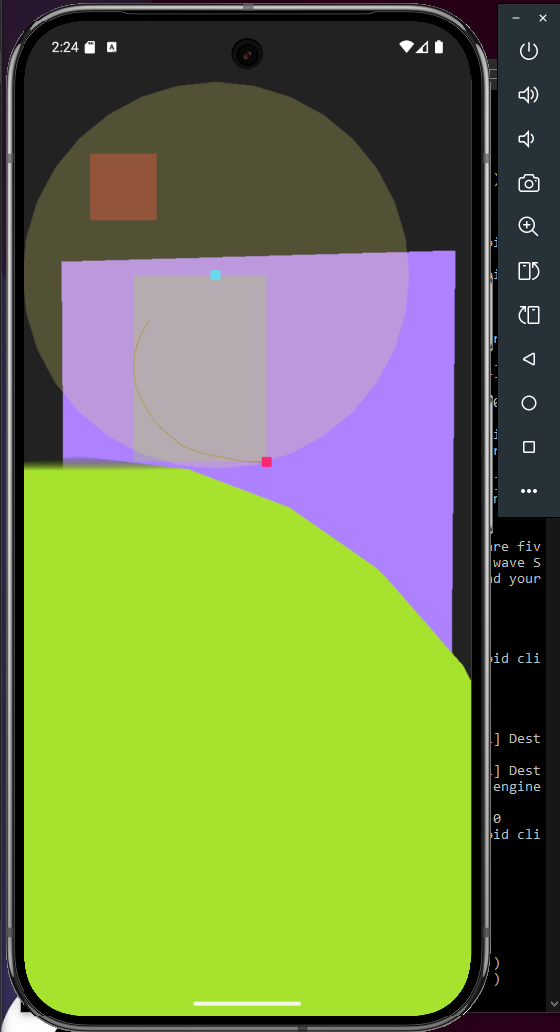
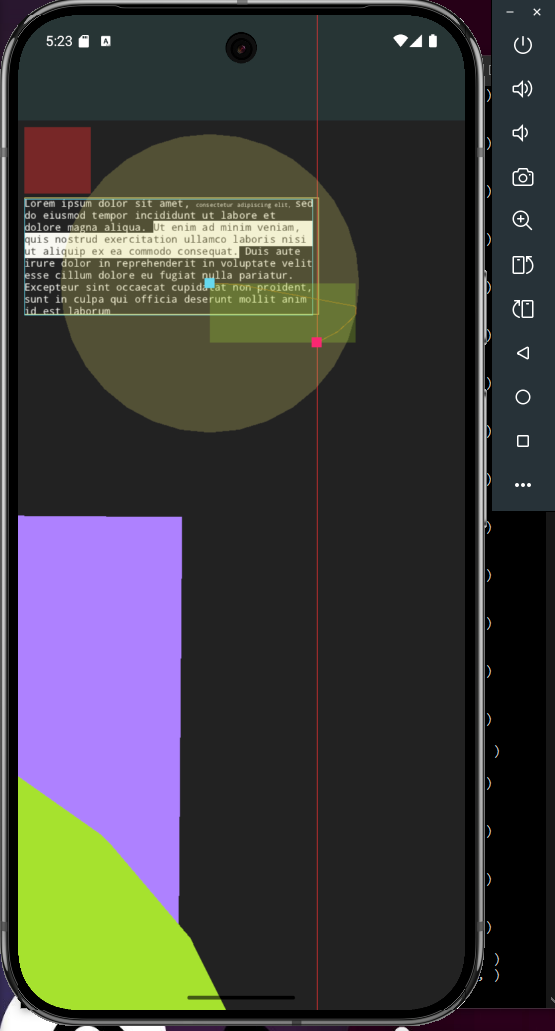
Added jObjGetField and jClassGetField to os_jni.h as well as some more function signatures that we needed to determine the safe area on the screen that we can render to.

diff --git a/os/os_jni.h b/os/os_jni.h
@@ -108,7 +108,9 @@ plex JvmReturn
 	PIG_CORE_INLINE jstring NewJStrNt(JNIEnv* env, const char* nullTermStr);
 	PIG_CORE_INLINE Str8 ToStr8FromJStr(JNIEnv* env, Arena* arena, jstring jstr, bool addNullTerm);
 	JvmReturn jObjCall(JNIEnv* env, jobject jobj, bool isStaticMethod, const char* funcNameNt, const char* funcTypeSignatureNt, JvmType returnType, bool assertOnNullReturn, ...);
-	JvmReturn jClassCall(JNIEnv* env, const char* className, const char* funcNameNt, const char* funcTypeSignatureNt, JvmType returnType, bool assertOnNullReturn, ...);
+	JvmReturn jClassCall(JNIEnv* env, const char* classNameNt, const char* funcNameNt, const char* funcTypeSignatureNt, JvmType returnType, bool assertOnNullReturn, ...);
+	JvmReturn jObjGetField(JNIEnv* env, jobject jobj, bool isStaticField, const char* fieldNameNt, const char* typeSignatureNt, JvmType fieldType, bool assertOnNull);
+	JvmReturn jClassGetField(JNIEnv* env, const char* classNameNt, const char* fieldNameNt, const char* typeSignatureNt, JvmType fieldType, bool assertOnNull);
 #endif
 
 // +--------------------------------------------------------------+
@@ -134,6 +136,11 @@ JavaVM* AndroidJavaVM = nullptr;
 		(*AndroidJavaVM)->DetachCurrentThread(AndroidJavaVM))
 
 // +==============================+
+// |       Field Signatures       |
+// +==============================+
+#define jGetField_Build_VERSION_CODES(env, levelFieldNameNt) jClassGetField(env, "android/os/Build$VERSION_CODES", (levelFieldNameNt), "I", JvmType_Int, true).intValue
+
+// +==============================+
 // |     Function Signatures      |
 // +==============================+
 // NOTE: JNI type signature strings include the following types (For example when calling GetMethodID on a jclass):
@@ -145,15 +152,37 @@ JavaVM* AndroidJavaVM = nullptr;
 //		'J': long
 //		'F': float
 //		'D': double
-//		"L fully_qualified_class": fully_qualified_class
+//		"L fully_qualified_class;": fully_qualified_class
 //		"[ type": type[]
 //		"( arg_types ) return_type": Method with "arg_types" and "return_type"
 
-// android.app.NativeActivity Functions
-#define jCall_getSystemService(env, nativeActivity, serviceJStr) jObjCall((env), (nativeActivity)->clazz, false, "getSystemService", "(Ljava/lang/String;)Ljava/lang/Object;", JvmType_Object, true, (serviceJStr)).objectValue;
+// android.app.Activity Functions (https://developer.android.com/reference/android/app/Activity)
+#define jCall_getWindow(env, activity) jObjCall((env), (activity)->clazz, false, "getWindow", "()Landroid/view/Window;", JvmType_Object, true).objectValue
+
+// android.app.NativeActivity Functions (https://developer.android.com/reference/android/app/NativeActivity)
+#define jCall_getSystemService(env, nativeActivity, serviceJStr) jObjCall((env), (nativeActivity)->clazz, false, "getSystemService", "(Ljava/lang/String;)Ljava/lang/Object;", JvmType_Object, true, (serviceJStr)).objectValue
 #define jCall_getFilesDir(env, nativeActivity) jObjCall((env), (nativeActivity)->clazz, false, "getFilesDir", "()Ljava/io/File;", JvmType_Object, true).objectValue
 
-// java.io.File Functions
+// android.view.Window Functions (https://developer.android.com/reference/android/view/Window)
+#define jCall_getDecorView(env, window) jObjCall((env), (window), false, "getDecorView", "()Landroid/view/View;", JvmType_Object, true).objectValue
+
+// android.view.View Functions (https://developer.android.com/reference/android/view/View)
+#define jCall_getRootWindowInsets(env, view) jObjCall((env), (view), false, "getRootWindowInsets", "()Landroid/view/WindowInsets;", JvmType_Object, true).objectValue
+
+// android.view.WindowInsets (https://developer.android.com/reference/android/view/WindowInsets)
+#define jCall_getDisplayCutout(env, windowInsets) jObjCall((env), (windowInsets), false, "getDisplayCutout", "()Landroid/view/DisplayCutout;", JvmType_Object, false).objectValue
+#define jCall_getSystemWindowInsetBottom(env, windowInsets) jObjCall((env), (windowInsets), false, "getSystemWindowInsetBottom", "()I", JvmType_Int, true).intValue
+#define jCall_getSystemWindowInsetLeft(env, windowInsets)   jObjCall((env), (windowInsets), false, "getSystemWindowInsetLeft",   "()I", JvmType_Int, true).intValue
+#define jCall_getSystemWindowInsetRight(env, windowInsets)  jObjCall((env), (windowInsets), false, "getSystemWindowInsetRight",  "()I", JvmType_Int, true).intValue
+#define jCall_getSystemWindowInsetTop(env, windowInsets)    jObjCall((env), (windowInsets), false, "getSystemWindowInsetTop",    "()I", JvmType_Int, true).intValue
+
+// android.view.DisplayCutout (https://developer.android.com/reference/android/view/DisplayCutout)
+#define jCall_getSafeInsetBottom(env, displayCutout) jObjCall((env), (displayCutout), false, "getSafeInsetBottom", "()I", JvmType_Int, true).intValue
+#define jCall_getSafeInsetLeft(env, displayCutout)   jObjCall((env), (displayCutout), false, "getSafeInsetLeft",   "()I", JvmType_Int, true).intValue
+#define jCall_getSafeInsetRight(env, displayCutout)  jObjCall((env), (displayCutout), false, "getSafeInsetRight",  "()I", JvmType_Int, true).intValue
+#define jCall_getSafeInsetTop(env, displayCutout)    jObjCall((env), (displayCutout), false, "getSafeInsetTop",    "()I", JvmType_Int, true).intValue
+
+// java.io.File Functions (https://developer.android.com/reference/java/io/File)
 #define jCall_getAbsolutePath(env, fileJObj) jObjCall((env), (fileJObj), false, "getAbsolutePath", "()Ljava/lang/String;", JvmType_String, true).stringValue
 
 // android.text.ClipboardManager Functions (https://developer.android.com/reference/android/content/ClipboardManager)
@@ -207,6 +236,7 @@ PEXP JvmReturn jObjCall(JNIEnv* env, jobject jobj, bool isStaticMethod, const ch
 	jmethodID methodId = isStaticMethod
 		? (*env)->GetStaticMethodID(env, classRef, funcNameNt, funcTypeSignatureNt)
 		: (*env)->GetMethodID(env, classRef, funcNameNt, funcTypeSignatureNt);
+	if (methodId == nullptr) { PrintLine_E("Couldn't find method \"%s\" of type \"%s\" on Java object", funcNameNt, funcTypeSignatureNt); }
 	AssertMsg(methodId != nullptr, "Couldn't find Java method by name/signature on object's class!");
 	va_list args;
 	va_start(args, methodId);
@@ -230,15 +260,21 @@ PEXP JvmReturn jObjCall(JNIEnv* env, jobject jobj, bool isStaticMethod, const ch
 		default: AssertMsg(false, "Unsupported returnType in jObjCall!"); break;
 	}
 	va_end(args);
-	if (assertOnNullReturn && (returnType == JvmType_Object || returnType == JvmType_String)) { AssertMsg(result.objectValue != nullptr, "Java method returned null jobject!"); }
+	if (assertOnNullReturn && (returnType == JvmType_Object || returnType == JvmType_String))
+	{
+		if (result.objectValue == nullptr) { PrintLine_E("Got null from method \"%s\" with type \"%s\" on Java object", funcNameNt, funcTypeSignatureNt); }
+		AssertMsg(result.objectValue != nullptr, "Java method returned null jobject!");
+	}
 	return result;
 }
 
-PEXP JvmReturn jClassCall(JNIEnv* env, const char* className, const char* funcNameNt, const char* funcTypeSignatureNt, JvmType returnType, bool assertOnNullReturn, ...)
+PEXP JvmReturn jClassCall(JNIEnv* env, const char* classNameNt, const char* funcNameNt, const char* funcTypeSignatureNt, JvmType returnType, bool assertOnNullReturn, ...)
 {
-	jclass classRef = (*env)->FindClass(env, className);
+	jclass classRef = (*env)->FindClass(env, classNameNt);
+	if (classRef == nullptr) { PrintLine_E("Couldn't find Java class named \"%s\"", classNameNt); }
 	AssertMsg(classRef != nullptr, "Couldn't find Java class by name!");
 	jmethodID methodId = (*env)->GetStaticMethodID(env, classRef, funcNameNt, funcTypeSignatureNt);
+	if (methodId == nullptr) { PrintLine_E("Couldn't find method \"%s\" of type \"%s\" on Java class \"%s\"", funcNameNt, funcTypeSignatureNt, classNameNt); }
 	AssertMsg(methodId != nullptr, "Couldn't find Java method by name/signature on found class!");
 	va_list args;
 	va_start(args, methodId);
@@ -262,7 +298,81 @@ PEXP JvmReturn jClassCall(JNIEnv* env, const char* className, const char* funcNa
 		default: AssertMsg(false, "Unsupported returnType in jClassCall!"); break;
 	}
 	va_end(args);
-	if (assertOnNullReturn && (returnType == JvmType_Object || returnType == JvmType_String)) { AssertMsg(result.objectValue != nullptr, "Java method returned null jobject!"); }
+	if (assertOnNullReturn && (returnType == JvmType_Object || returnType == JvmType_String))
+	{
+		if (result.objectValue == nullptr) { PrintLine_E("Got null from method \"%s\" with type \"%s\" on Java class \"%s\"", funcNameNt, funcTypeSignatureNt, classNameNt); }
+		AssertMsg(result.objectValue != nullptr, "Java method returned null jobject!");
+	}
+	return result;
+}
+
+PEXP JvmReturn jObjGetField(JNIEnv* env, jobject jobj, bool isStaticField, const char* fieldNameNt, const char* typeSignatureNt, JvmType fieldType, bool assertOnNull)
+{
+	jclass classRef = (*env)->GetObjectClass(env, jobj);
+	AssertMsg(classRef != nullptr, "Couldn't get Java object's class reference!");
+	jfieldID fieldId = isStaticField
+		? (*env)->GetStaticFieldID(env, classRef, fieldNameNt, typeSignatureNt)
+		: (*env)->GetFieldID(env, classRef, fieldNameNt, typeSignatureNt);
+	
+	if (fieldId == nullptr) { PrintLine_E("Couldn't find field \"%s\" of type \"%s\" on Java object", fieldNameNt, typeSignatureNt); }
+	AssertMsg(fieldId != nullptr, "Couldn't find Java field by name/signature on object's class!");
+	JvmReturn result = { .type = fieldType };
+	switch (fieldType)
+	{
+		case JvmType_Bool:      result.boolValue      = (isStaticField ? (*env)->GetStaticBooleanField(env, classRef, fieldId) : (*env)->GetBooleanField(env, jobj, fieldId)); break;
+		case JvmType_Byte:      result.byteValue      = (isStaticField ? (*env)->GetStaticByteField(env,    classRef, fieldId) : (*env)->GetByteField(env,    jobj, fieldId)); break;
+		case JvmType_Char:      result.charValue      = (isStaticField ? (*env)->GetStaticCharField(env,    classRef, fieldId) : (*env)->GetCharField(env,    jobj, fieldId)); break;
+		case JvmType_Short:     result.shortValue     = (isStaticField ? (*env)->GetStaticShortField(env,   classRef, fieldId) : (*env)->GetShortField(env,   jobj, fieldId)); break;
+		case JvmType_Int:       result.intValue       = (isStaticField ? (*env)->GetStaticIntField(env,     classRef, fieldId) : (*env)->GetIntField(env,     jobj, fieldId)); break;
+		case JvmType_Long:      result.longValue      = (isStaticField ? (*env)->GetStaticLongField(env,    classRef, fieldId) : (*env)->GetLongField(env,    jobj, fieldId)); break;
+		case JvmType_Float:     result.floatValue     = (isStaticField ? (*env)->GetStaticFloatField(env,   classRef, fieldId) : (*env)->GetFloatField(env,   jobj, fieldId)); break;
+		case JvmType_Double:    result.doubleValue    = (isStaticField ? (*env)->GetStaticDoubleField(env,  classRef, fieldId) : (*env)->GetDoubleField(env,  jobj, fieldId)); break;
+		case JvmType_Object:    result.objectValue    = (isStaticField ? (*env)->GetStaticObjectField(env,  classRef, fieldId) : (*env)->GetObjectField(env,  jobj, fieldId)); break;
+		case JvmType_Class:     result.classValue     = (isStaticField ? (*env)->GetStaticObjectField(env,  classRef, fieldId) : (*env)->GetObjectField(env,  jobj, fieldId)); break;
+		case JvmType_String:    result.stringValue    = (isStaticField ? (*env)->GetStaticObjectField(env,  classRef, fieldId) : (*env)->GetObjectField(env,  jobj, fieldId)); break;
+		case JvmType_Throwable: result.throwableValue = (isStaticField ? (*env)->GetStaticObjectField(env,  classRef, fieldId) : (*env)->GetObjectField(env,  jobj, fieldId)); break;
+		case JvmType_Array:     result.arrayValue     = (isStaticField ? (*env)->GetStaticObjectField(env,  classRef, fieldId) : (*env)->GetObjectField(env,  jobj, fieldId)); break;
+		default: AssertMsg(false, "Unsupported fieldType in jObjGetField!"); break;
+	}
+	if (assertOnNull && (fieldType == JvmType_Object || fieldType == JvmType_String))
+	{
+		if (result.objectValue == nullptr) { PrintLine_E("Field \"%s\" of type \"%s\" is null on Java object", fieldNameNt, typeSignatureNt); }
+		AssertMsg(result.objectValue != nullptr, "Java field was null!");
+	}
+	return result;
+}
+
+PEXP JvmReturn jClassGetField(JNIEnv* env, const char* classNameNt, const char* fieldNameNt, const char* typeSignatureNt, JvmType fieldType, bool assertOnNull)
+{
+	jclass classRef = (*env)->FindClass(env, classNameNt);
+	if (classRef == nullptr) { PrintLine_E("Couldn't find Java class named \"%s\"", classNameNt); }
+	AssertMsg(classRef != nullptr, "Couldn't find Java class by name!");
+	jfieldID fieldId = (*env)->GetStaticFieldID(env, classRef, fieldNameNt, typeSignatureNt);
+	if (fieldId == nullptr) { PrintLine_E("Couldn't find field \"%s\" of type \"%s\" on Java class \"%s\"", fieldNameNt, typeSignatureNt, classNameNt); }
+	AssertMsg(fieldId != nullptr, "Couldn't find Java field by name/signature on found class!");
+	JvmReturn result = { .type = fieldType };
+	switch (fieldType)
+	{
+		case JvmType_Bool:      result.boolValue      = (*env)->GetStaticBooleanField(env, classRef, fieldId); break;
+		case JvmType_Byte:      result.byteValue      = (*env)->GetStaticByteField(env,    classRef, fieldId); break;
+		case JvmType_Char:      result.charValue      = (*env)->GetStaticCharField(env,    classRef, fieldId); break;
+		case JvmType_Short:     result.shortValue     = (*env)->GetStaticShortField(env,   classRef, fieldId); break;
+		case JvmType_Int:       result.intValue       = (*env)->GetStaticIntField(env,     classRef, fieldId); break;
+		case JvmType_Long:      result.longValue      = (*env)->GetStaticLongField(env,    classRef, fieldId); break;
+		case JvmType_Float:     result.floatValue     = (*env)->GetStaticFloatField(env,   classRef, fieldId); break;
+		case JvmType_Double:    result.doubleValue    = (*env)->GetStaticDoubleField(env,  classRef, fieldId); break;
+		case JvmType_Object:    result.objectValue    = (*env)->GetStaticObjectField(env,  classRef, fieldId); break;
+		case JvmType_Class:     result.classValue     = (*env)->GetStaticObjectField(env,  classRef, fieldId); break;
+		case JvmType_String:    result.stringValue    = (*env)->GetStaticObjectField(env,  classRef, fieldId); break;
+		case JvmType_Throwable: result.throwableValue = (*env)->GetStaticObjectField(env,  classRef, fieldId); break;
+		case JvmType_Array:     result.arrayValue     = (*env)->GetStaticObjectField(env,  classRef, fieldId); break;
+		default: AssertMsg(false, "Unsupported fieldType in jClassGetField!"); break;
+	}
+	if (assertOnNull && (fieldType == JvmType_Object || fieldType == JvmType_String))
+	{
+		if (result.objectValue == nullptr) { PrintLine_E("Field \"%s\" of type \"%s\" is null on Java class \"%s\"", fieldNameNt, typeSignatureNt, classNameNt); }
+		AssertMsg(result.objectValue != nullptr, "Java field was null!");
+	}
 	return result;
 }
 

diff --git a/tests/tests_sokol.c b/tests/tests_sokol.c
@@ -70,6 +70,52 @@ cTokenizer tokenizer = ZEROED;
 #if BUILD_WITH_PHYSX
 PhysicsWorld* physWorld = nullptr;
 #endif
+v4 screenSafeMargins = V4_Zero_Const;
+v2i oldWindowSize = V2i_Zero_Const;
+
+void UpdateScreenSafeMargins()
+{
+	#if TARGET_IS_ANDROID
+	JavaVMAttachBlock(env)
+	{
+		if ((*env)->GetVersion(env) > jGetField_Build_VERSION_CODES(env, "P"))
+		{
+			WriteLine_I("We should be able to get cutouts!");
+			jobject window = jCall_getWindow(env, AndroidNativeActivity);
+			jobject decorView = jCall_getDecorView(env, window);
+			
+			jobject insets = jCall_getRootWindowInsets(env, decorView);
+			i32 windowInsetLeft   = jCall_getSystemWindowInsetLeft(env, insets);
+			i32 windowInsetTop    = jCall_getSystemWindowInsetTop(env, insets);
+			i32 windowInsetRight  = jCall_getSystemWindowInsetRight(env, insets);
+			i32 windowInsetBottom = jCall_getSystemWindowInsetBottom(env, insets);
+			screenSafeMargins.X = (r32)windowInsetLeft;
+			screenSafeMargins.Y = (r32)windowInsetTop;
+			screenSafeMargins.Z = (r32)windowInsetRight;
+			screenSafeMargins.W = (r32)windowInsetBottom;
+			
+			jobject displayCutout = jCall_getDisplayCutout(env, insets);
+			if (displayCutout != nullptr)
+			{
+				i32 safeInsetLeft   = jCall_getSafeInsetLeft(env, displayCutout);
+				i32 safeInsetTop    = jCall_getSafeInsetTop(env, displayCutout);
+				i32 safeInsetRight  = jCall_getSafeInsetRight(env, displayCutout);
+				i32 safeInsetBottom = jCall_getSafeInsetBottom(env, displayCutout);
+				screenSafeMargins.X = (r32)MaxI32(windowInsetLeft, safeInsetLeft);
+				screenSafeMargins.Y = (r32)MaxI32(windowInsetTop, safeInsetTop);
+				screenSafeMargins.Z = (r32)MaxI32(windowInsetRight, safeInsetRight);
+				screenSafeMargins.W = (r32)MaxI32(windowInsetBottom, safeInsetBottom);
+				
+				(*env)->DeleteLocalRef(env, displayCutout);
+			}
+			(*env)->DeleteLocalRef(env, insets);
+			(*env)->DeleteLocalRef(env, decorView);
+			(*env)->DeleteLocalRef(env, window);
+		}
+	}
+	#endif
+}
+
 
 #if BUILD_WITH_CLAY
 //Call Clay__CloseElement once if false, three times if true (i.e. twicfe inside the if statement and once after)
@@ -349,6 +395,9 @@ void AppInit(void)
 	CreatePhysicsTest(physWorld);
 	#endif
 	
+	UpdateScreenSafeMargins();
+	oldWindowSize = NewV2i(sapp_width(), sapp_height());
+	
 	ScratchEnd(scratch);
 }
 
@@ -387,6 +436,10 @@ bool AppFrame(void)
 	v2i windowSizei = NewV2i(sapp_width(), sapp_height());
 	v2 windowSize = NewV2(sapp_widthf(), sapp_heightf());
 	// v2 touchPos = touchscreen.mainTouch->pos;
+	if (AreEqualV2i(oldWindowSize, windowSizei))
+	{
+		UpdateScreenSafeMargins();
+	}
 	
 	if (IsMouseBtnDown(&mouse, MouseBtn_Left)) { wrapPos = mouse.position; }
 	if (touchscreen.mainTouch->id != TOUCH_ID_INVALID) { wrapPos = touchscreen.mainTouch->pos; }
@@ -525,11 +578,16 @@ bool AppFrame(void)
 			SetViewMat(Mat4_Identity);
 			SetTextBackgroundColor(MonokaiBack);
 			
+			DrawRectangle(NewRec(0, 0, screenSafeMargins.X, windowSize.Height), ColorWithAlpha(MonokaiMagenta, 0.5f));
+			DrawRectangle(NewRec(0, 0, windowSize.Width, screenSafeMargins.Y), ColorWithAlpha(MonokaiBlue, 0.5f));
+			DrawRectangle(NewRec(windowSize.Width - screenSafeMargins.Z, 0, windowSize.Width, screenSafeMargins.Z), ColorWithAlpha(MonokaiPurple, 0.5f));
+			DrawRectangle(NewRec(0, windowSize.Height - screenSafeMargins.W, screenSafeMargins.W, windowSize.Height), ColorWithAlpha(MonokaiYellow, 0.5f));
+			
 			#if 1
 			if (testFont.atlases.length > 0)
 			{
 				BindFont(&testFont);
-				v2 textPos = NewV2(50, 50);
+				v2 textPos = NewV2(screenSafeMargins.X + 10, screenSafeMargins.Y + 130);
 				r32 wrapWidth = MaxR32(wrapPos.X - textPos.X, 0.0f);
 				if (wrapWidth == 0.0f) { wrapWidth = windowSize.Width - textPos.X; }
 				RichStr loremIpsumRich = DecodeStrToRichStr(scratch, StrLit("Lorem ipsum dolor sit amet, [size=10]consectetur adipiscing elit, [size]sed do eiusmod tempor incididunt ut labore et dolore magna aliqua. [highlight]Ut enim ad minim veniam, quis nostrud exercitation ullamco laboris nisi ut aliquip ex ea commodo consequat.[highlight] Duis aute irure dolor in reprehenderit in voluptate velit esse cillum dolore eu fugiat nulla pariatur. Excepteur sint occaecat cupidatat non proident, sunt in culpa qui officia deserunt mollit anim id est laborum"));
@@ -549,7 +607,7 @@ bool AppFrame(void)
 			#endif
 			
 			#if TARGET_IS_ANDROID
-			rec buttonRec = NewRec(100, 200, 100, 100);
+			rec buttonRec = NewRec(screenSafeMargins.X + 10, screenSafeMargins.Y + 10, 100, 100);
 			DrawRectangle(buttonRec, ColorWithAlpha(MonokaiRed, 0.40f));
 			for (uxx tIndex = 0; tIndex < MAX_TOUCH_INPUTS; tIndex++)
 			{
